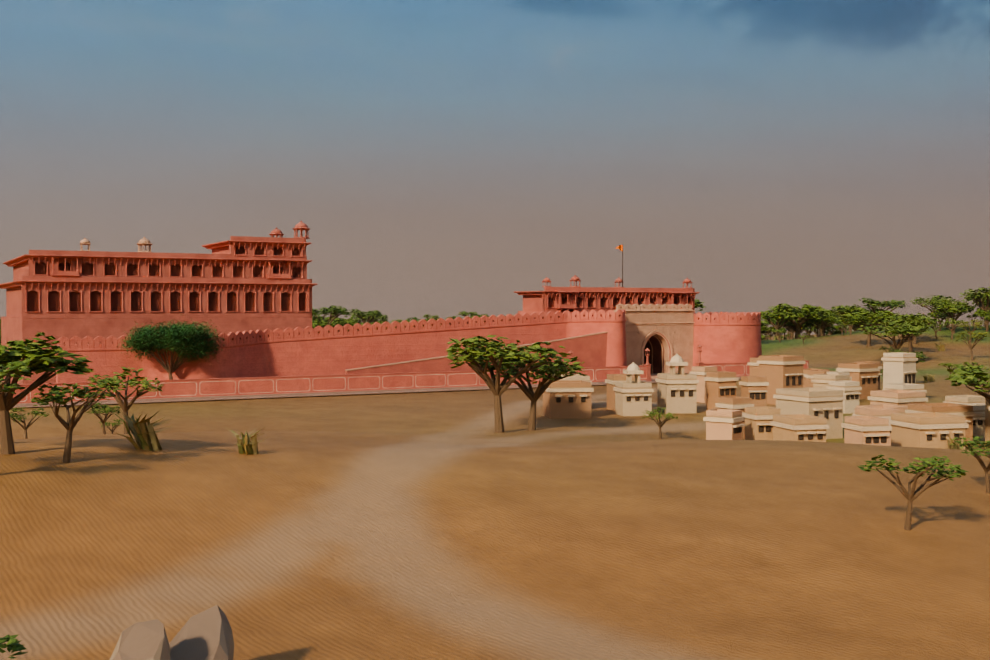
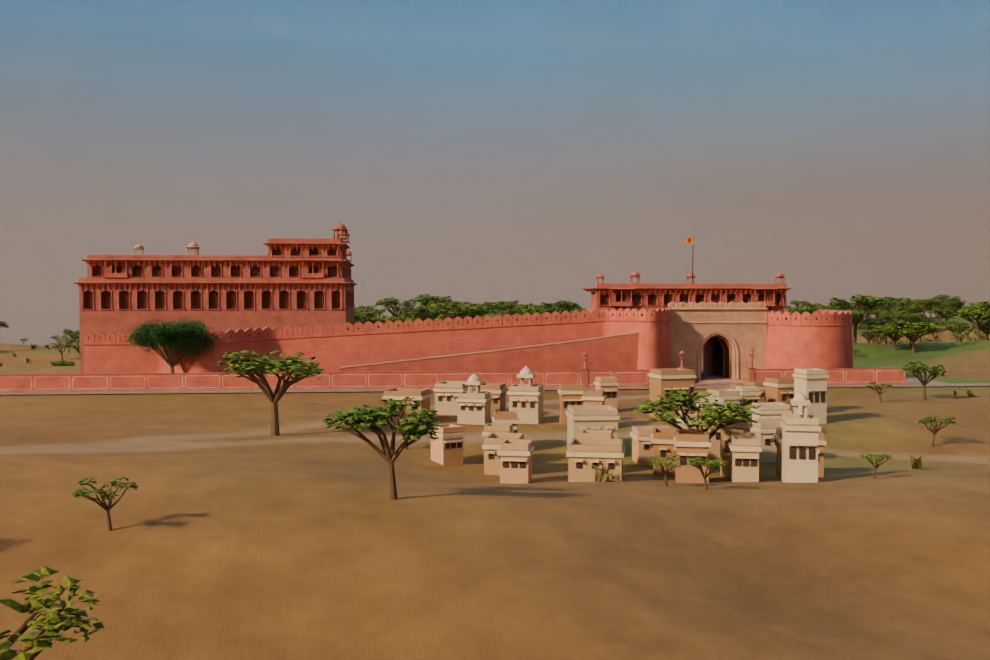
feat: update diorama phase 03.2.1 with Junagarh adjustments and documentation

diff --git a/artifacts/rajasthan-world/diorama-phase-03-2-1/correct_scene.py b/artifacts/rajasthan-world/diorama-phase-03-2-1/correct_scene.py
@@ -36,7 +36,8 @@ mount = bpy.data.objects.new("Junagarh · geographic placement", None)
 fort.objects.link(mount)
 mount.location = anchor.location
 mount.rotation_euler.z = -.08
-mount.scale = (.40,)*3
+scale = .44
+mount.scale = (scale,)*3
 datum = bpy.data.objects.new("Junagarh · source metre datum", None)
 fort.objects.link(datum)
 datum.parent = mount
@@ -73,6 +74,9 @@ def smooth(t):
 uv = local_xy(xy)
 edge = np.maximum.reduce((-142-uv[:,0],uv[:,0]-53,-15-uv[:,1],uv[:,1]-45))
 construction = 1-smooth(edge/24)
+sculpt = np.load(world/"diorama-phase-03-2/work/sculpt.npz")
+assert not np.any(construction[sculpt["ring"]])
+assert not np.any(construction[len(sculpt["top"]):])
 xyz[:,2] += construction*(anchor.location.z-.045-xyz[:,2])
 mesh.vertices.foreach_set("co",xyz.ravel())
 mesh.update()
@@ -95,7 +99,7 @@ sand = point_field("Sand coverage")
 stone = smooth(point_field("Exposed bedrock")*1.40)
 olive = (1-sand)*smooth((old[:,1]/np.maximum(old[:,0],.025)-.76)/.26)
 rgb = old * (1-olive[:,None]) * [1.05,.80,.54] + old * olive[:,None] * [.73,.94,.50]
-gold = old * [1.03,.74,.35]
+gold = old * [1.04,.76,.41]
 rgb += (gold-rgb)*sand[:,None]
 ironstone = old * [1.05,.77,.60]
 rgb += (ironstone-rgb)*stone[:,None]
@@ -107,7 +111,8 @@ for obj in water_objects:
     pigments = attribute_colors(colors)
     depth = smooth((.207-pigments[:,0])/.176)
     pigments[:,:3] = np.array([.17,.235,.138]) + depth[:,None]*np.array([-.15,-.156,-.135])
-    pigments[:,2] += .074*depth
+    pigments[:,2] += .107*depth
+    pigments[:,1] += .026*depth
     colors.data.foreach_set("color", pigments.ravel())
     counts = Counter(tuple(sorted(e)) for f in obj.data.polygons for e in f.edge_keys)
     rim = sorted({i for edge,num in counts.items() if num==1 for i in edge})
@@ -174,7 +179,7 @@ def ground(x,y):
     return (pos.z,normal.z) if hit else (None,0)
 
 rng = np.random.default_rng(321)
-water_grid = np.load(world/"diorama-phase-03-2/work/sculpt.npz")["wet"]
+water_grid = sculpt["wet"]
 kept_extra = 0
 for obj in bpy.data.collections["03 · Vegetation and stone instances"].objects:
     name = obj.name.partition(" · ")[0]
@@ -248,9 +253,9 @@ overview = bpy.data.objects["01-overview"]
 overview.data.lens = 58
 overview.data.shift_y = -.013
 approach = bpy.data.objects["05-junagarh-approach"]
-approach.data.lens = 41
-approach.location = datum.matrix_world @ Vector((-113,-153,11.8))
-focus = datum.matrix_world @ Vector((-29,3,8.2))
+approach.data.lens = 38
+approach.location = datum.matrix_world @ Vector((-49,-156,14.0))
+focus = datum.matrix_world @ Vector((-34,3,8.0))
 approach.rotation_euler = (focus-approach.location).to_track_quat("-Z","Y").to_euler()
 
 scene.timeline_markers.clear()
@@ -276,7 +281,7 @@ for x in (-.55,0,.55):
     for z in (.85,1.70,2.35):
         origin = datum.matrix_world @ Vector((x,-7,z))
         direction = (datum.matrix_world.to_3x3() @ Vector((0,1,0))).normalized()
-        hit,*result = scene.ray_cast(depsgraph,origin,direction,distance=23.95*.4)
+        hit,*result = scene.ray_cast(depsgraph,origin,direction,distance=23.95*scale)
         assert not hit, (x,z,result)
 print(f"INTEGRATION {len(architecture)} source meshes, {kept_extra} added plants, nine clear gateway rays")
 

diff --git a/artifacts/rajasthan-world/diorama-phase-03-2-1/README.md b/artifacts/rajasthan-world/diorama-phase-03-2-1/README.md
@@ -1,0 +1,32 @@
+# Phase 03.2.1 review
+
+[Editable Blender scene](Rajasthan.blend) · [Full Rajasthan draft](renders/01-overview.png) · [Junagarh approach draft](renders/02-junagarh-approach.png) · [Private reference contact sheet](work/reference-contact-sheet.jpg)
+
+The two drafts were compared with both original diorama stills and frames extracted from both Gemini clips at two-second intervals. The references served as visual benchmarks. The scene uses the inherited procedural terrain and 3D architecture.
+
+## Junagarh
+
+Imported 116 meshes from [junagarh-exterior-v01.blend](../blender/junagarh-exterior-v01.blend), retaining its modeled galleries, masonry, open rear vault, separate hinged leaves, and UV-mapped materials. The source street-enclosure details remain, and the oversized asphalt plane was excluded so the diorama terrain meets the forecourt. The placeholder was removed. The source metre datum was centered under the existing fort anchor, with a provisional south-facing entrance and an artwork scale of 0.44 Blender units per source metre. Terrain grading is confined to the fort and forecourt footprint and its transition. Nine rays passed through the open entrance corridor at different widths and heights. The original fort and Phase 03.2 Blender file passed their pre-edit checksums.
+
+The source is a reference-based street elevation, with incomplete architecture beyond the modeled façade and passage. The nearer village roofs still compete with the lower edge of the gateway in this composition. The existing doors retain their hinge origins and animation from the source. The review camera uses the open pose.
+
+## Color and landscape
+
+Phase 03.2 combined pale linear bedrock and sand pigments, cool area fill and sky illumination, and +0.28 exposure under AgX. AgX rolls off bright colors, so raising exposure while lighting these pale pigments reduced separation. This pass changes sand, soil, rock, foliage and water independently. It keeps AgX Medium High Contrast, reduces exposure to +0.11, lowers sky and area fill, and adds a warm edge light. The reopened scene uses the working Phase 01 OCIO configuration with no compositor adjustment. The imported diffuse maps use sRGB and roughness and normal maps use Non-Color. Twelve fort textures and the sky are packed. [Existing fort texture provenance](../research/junagarh/materials/inventory.json) · [Terrain and sky provenance](../diorama-phase-03-2/ASSETS.md)
+
+The terrain mesh retains its outline, ten anchor placements, and dune geometry. Exposed rock now has a layered fracture shader, while 1,759 additional plants extend existing clusters. Water has a warmer strand, cooler depth pigment, and reduced roughness. The rock relief and shore detail remain broader than the originals, and the other fort anchors have no detailed architectural masses. No website code or browser interaction was changed.
+
+## Rebuild
+
+The deliverables are the scene, the two draft PNGs, this report, and `correct_scene.py`. The script reads the saved Phase 03.2 scene and its local `work/sculpt.npz`, plus the source exterior and its existing textures. From the project root:
+
+```bash
+world="$PWD/artifacts/rajasthan-world"
+phase="$world/diorama-phase-03-2-1"
+flatpak run --filesystem="$PWD" \
+  --env=OCIO="$world/map-phase-01/.cache/ocio/config.ocio" \
+  org.blender.Blender -b "$world/diorama-phase-03-2/Rajasthan.blend" \
+  --python-exit-code 1 --python "$phase/correct_scene.py" -- --render
+```
+
+Both final drafts are 990 × 660 RGB PNGs rendered with Cycles CPU, up to 11 samples and denoising. The corrected scene reopened in Blender 5.1.1 with all 13 images packed. The editable scene and reference sheet are local ignored artifacts. Visual approval is pending.
